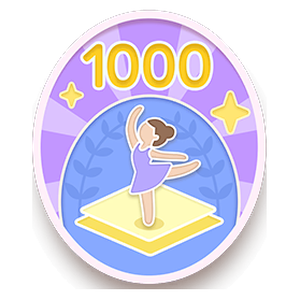
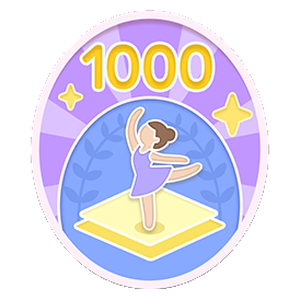
新規3バッジ画像に残っていた余分な影を除去 (#26)
提供元画像の半透明ドロップシャドウが、前回のトリム修正後も画像の
端にうっすら残っていた。アルファ値がしきい値(180)未満の部分は
影として完全に切り捨てるよう修正し、他のバッジ画像と同じ縁の
くっきりした見た目にした。

Claude-Session: https://claude.ai/code/session_01K3eMRAeT6oYS9BRu22swvm

diff --git a/achievements.html b/achievements.html
@@ -528,7 +528,7 @@ const ACH_HIDDEN_BADGE_IMG = "./images/achievements/hidden.png";
 // バッジ画像はファイル名を変えずに中身を差し替えることがあるため、Service
 // Workerの画像キャッシュ（cache-first）が古い中身を返し続けないよう、
 // クエリ文字列でキャッシュを明示的にバストする。画像を差し替えた際はこの値を上げる
-const ACH_IMG_CACHE_BUST = "3";
+const ACH_IMG_CACHE_BUST = "4";
 function withCacheBust(src){
   return src ? (src + "?v=" + ACH_IMG_CACHE_BUST) : src;
 }

diff --git a/service-worker.js b/service-worker.js
@@ -1,5 +1,5 @@
 // キャッシュ名（更新時はバージョンを上げる）
-const CACHE_NAME = "hatopi-v2.614.0";
+const CACHE_NAME = "hatopi-v2.615.0";
 
 // キャッシュするファイル一覧
 const CACHE_FILES = [
